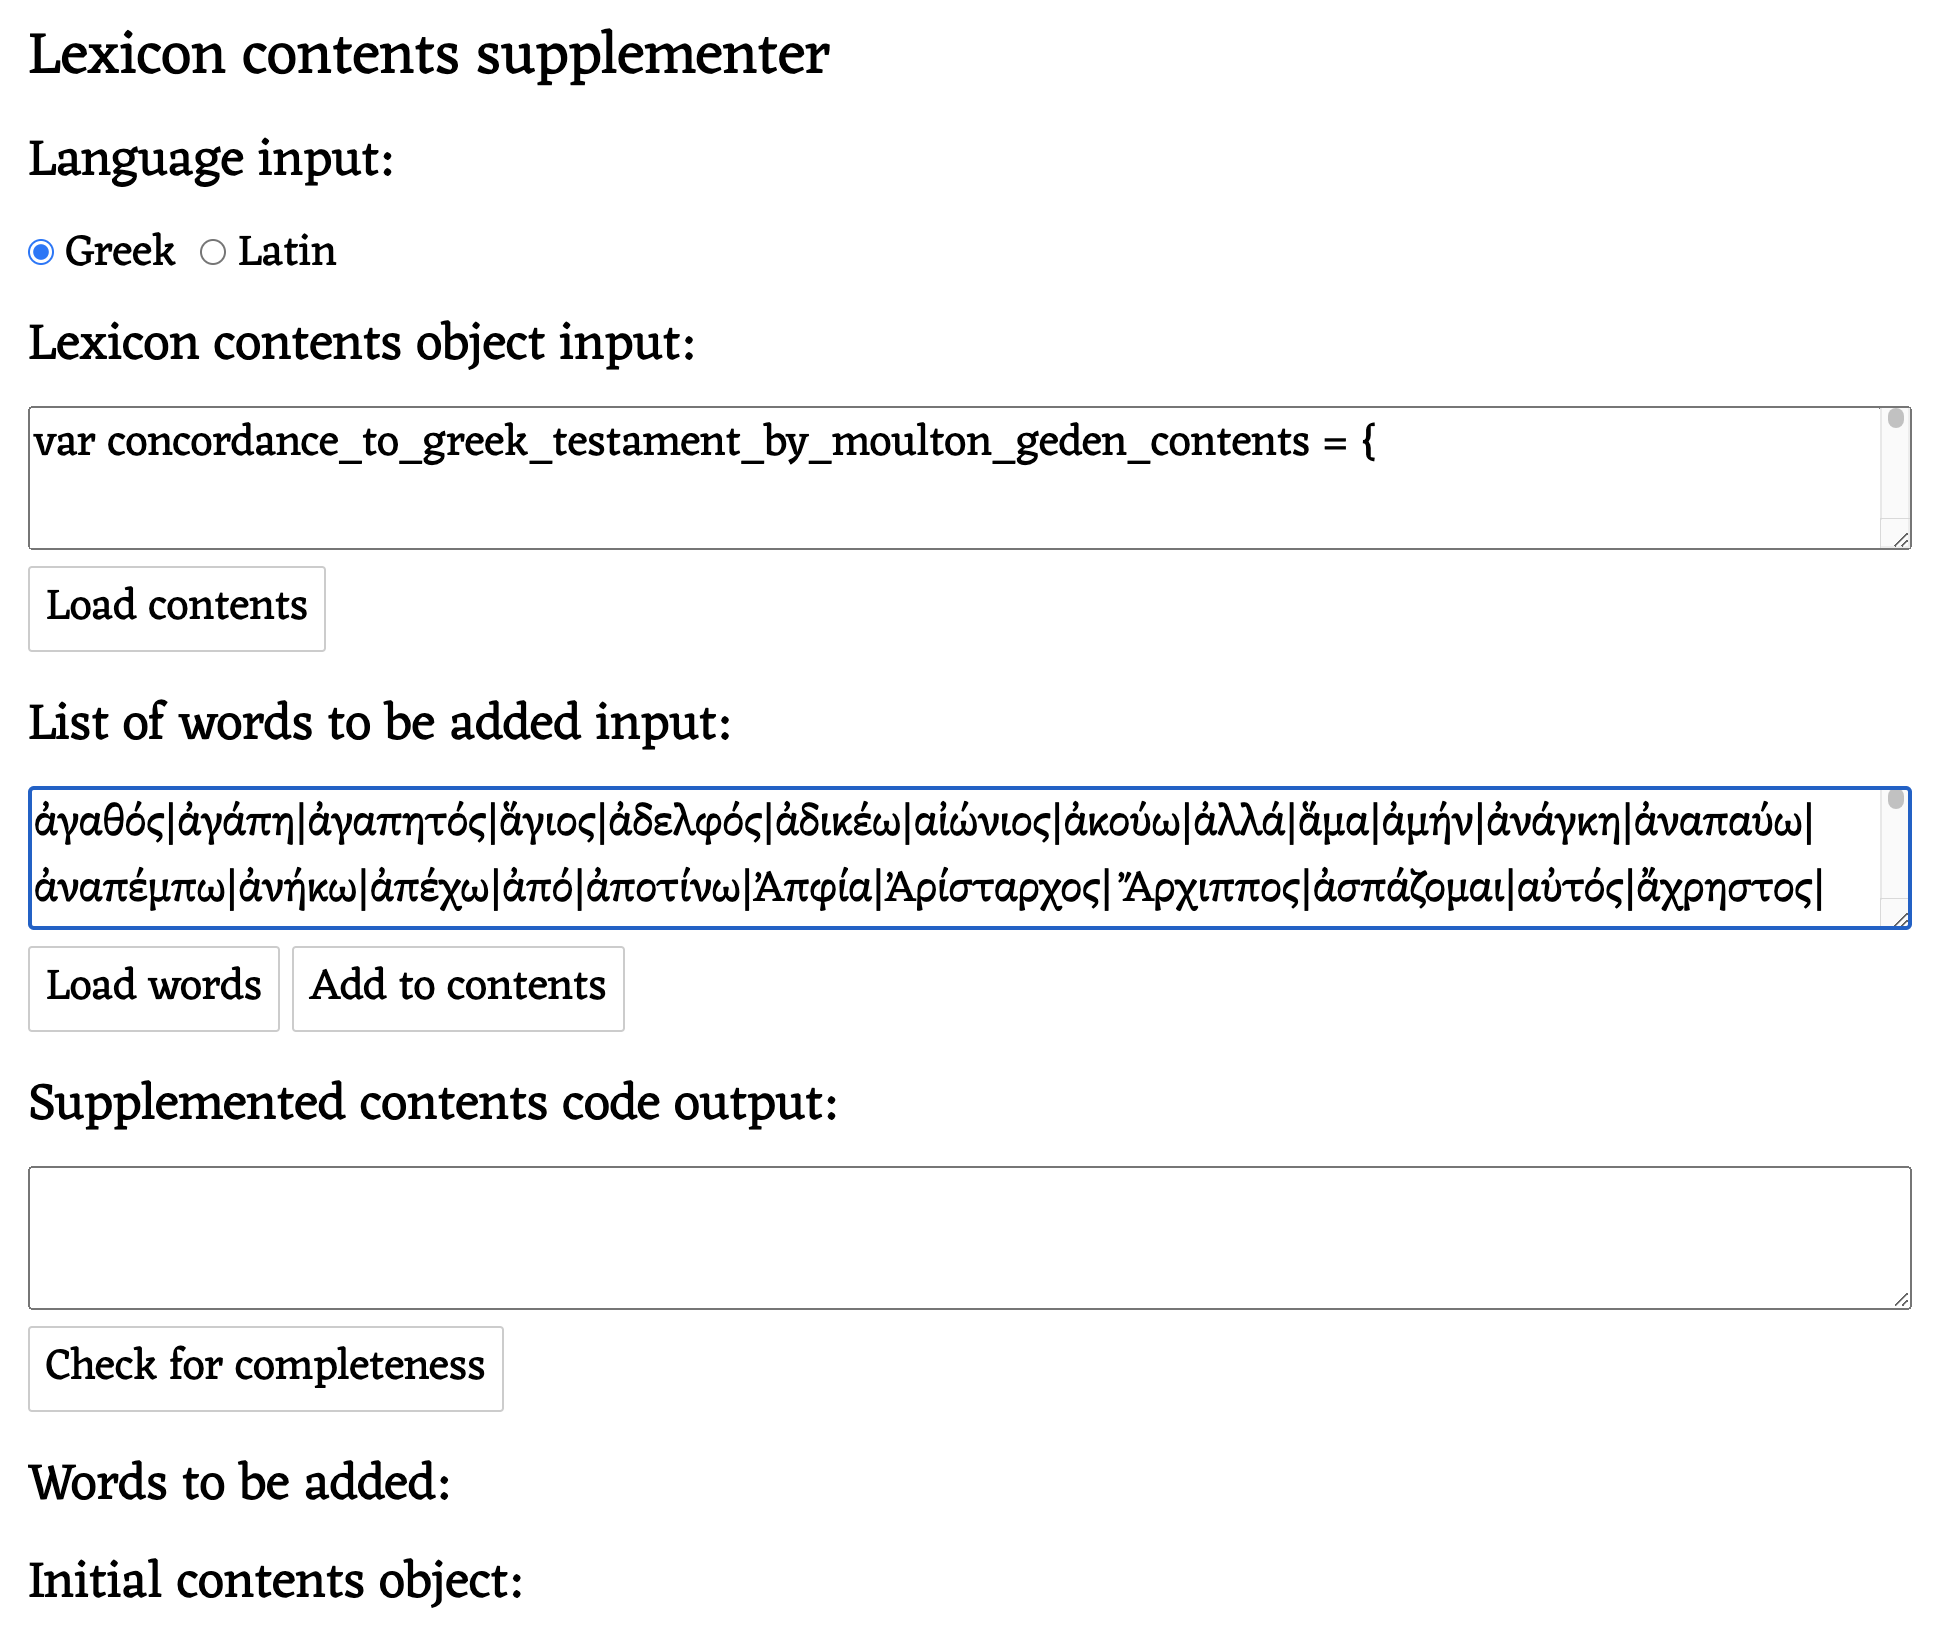
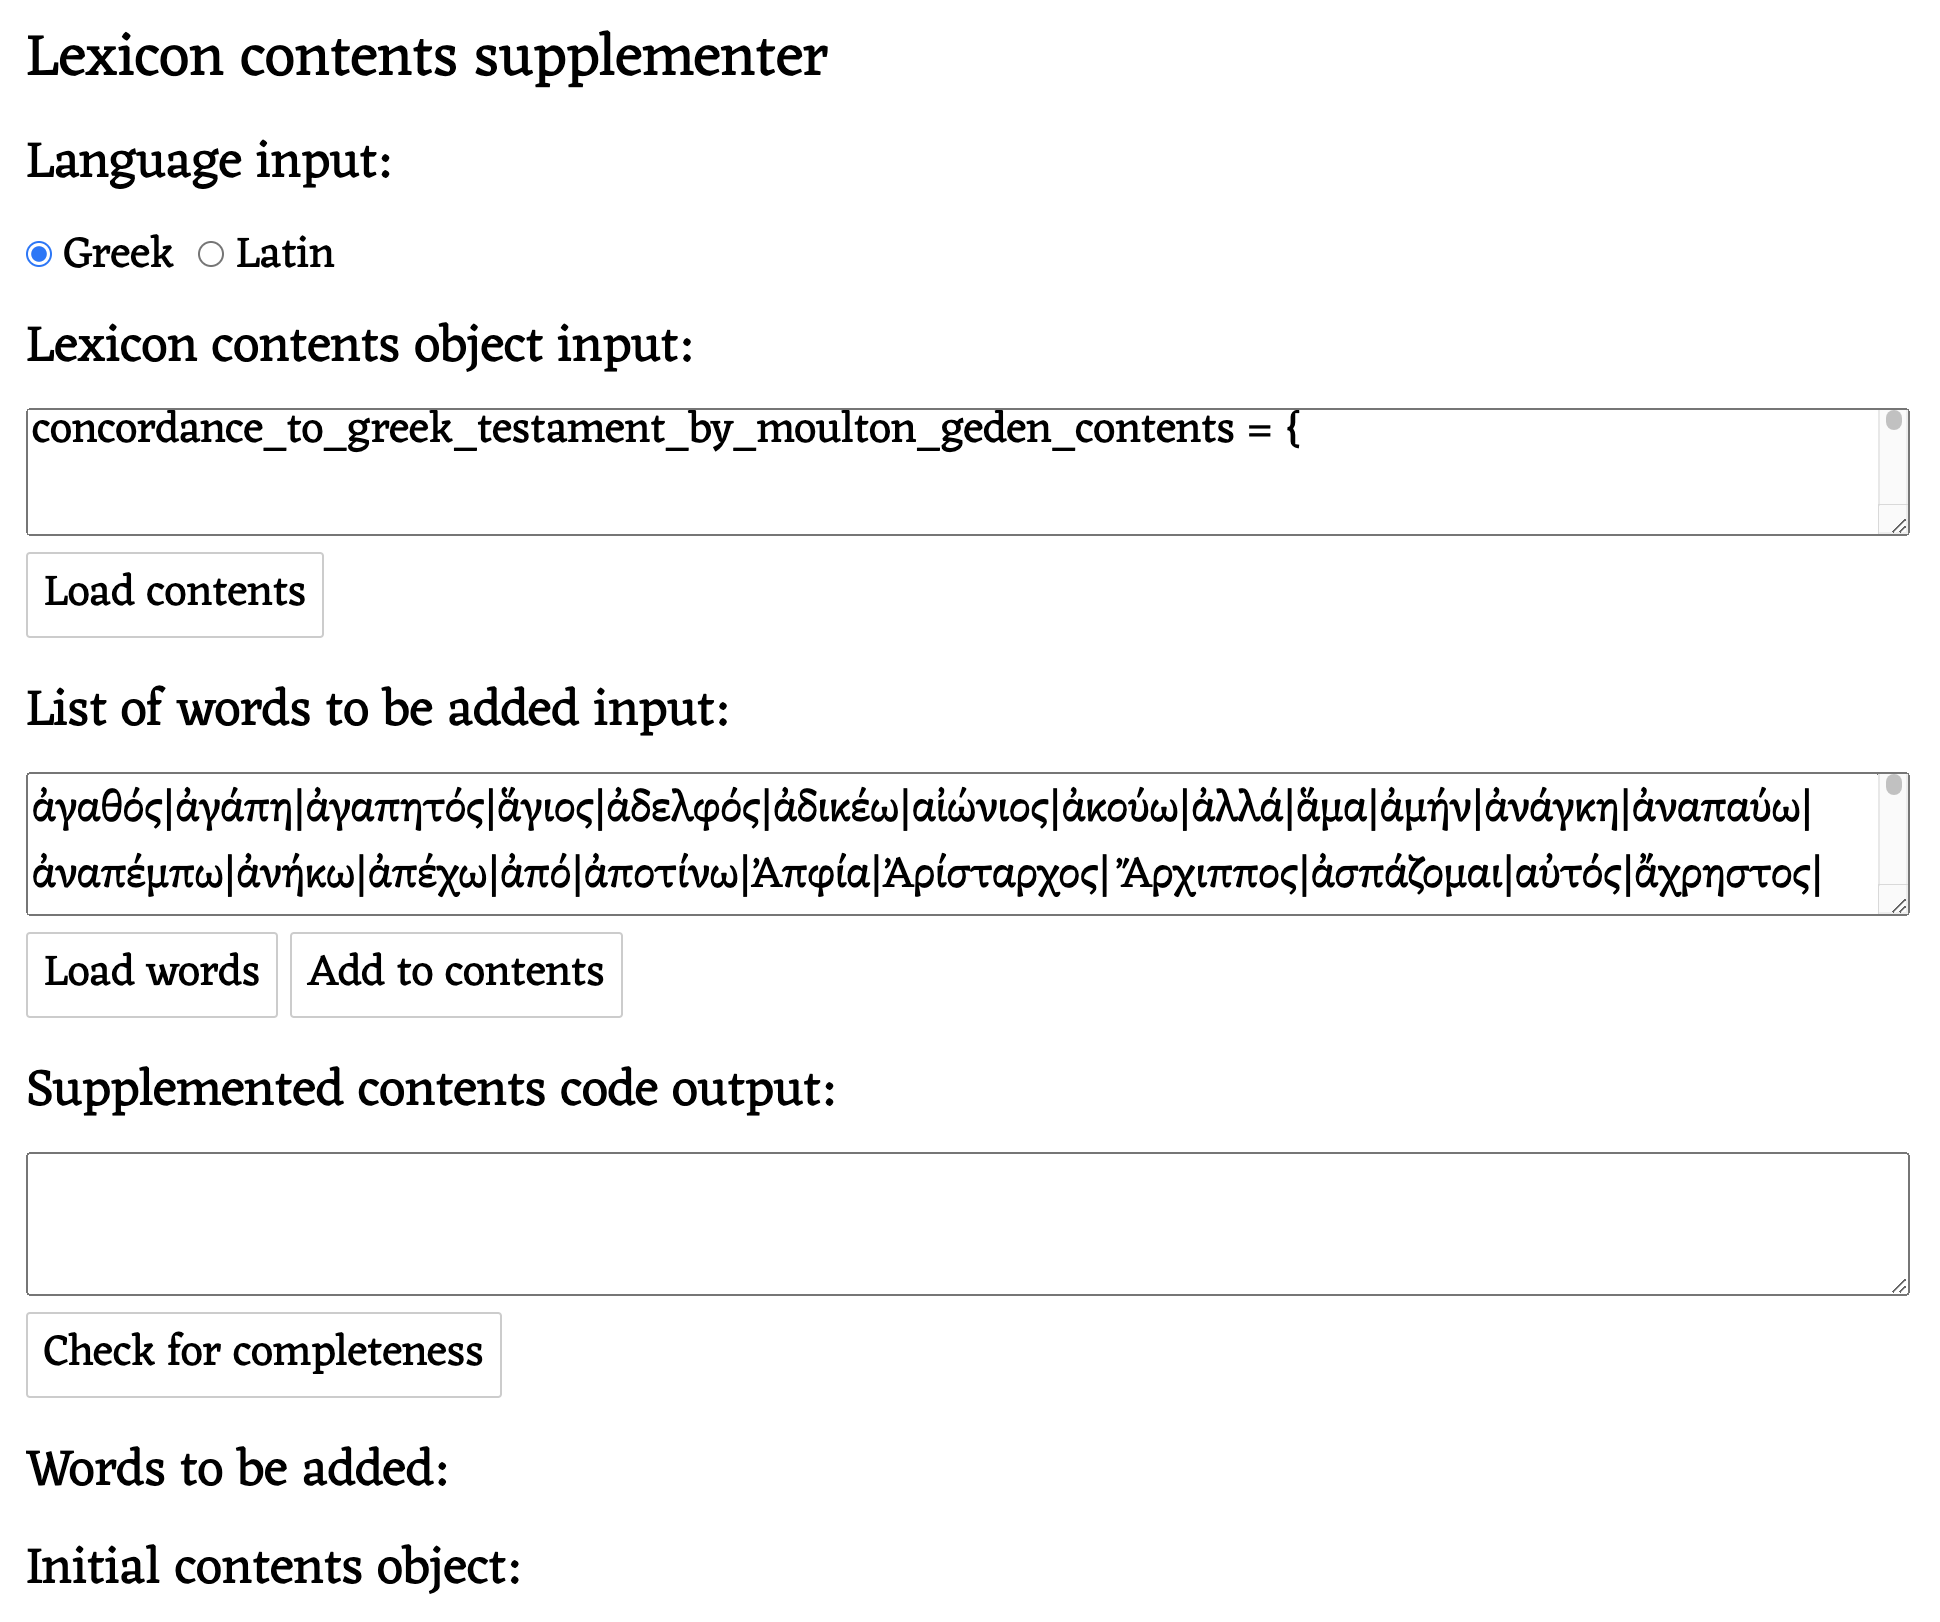
[122] Add Editor's docs part 14

diff --git a/docs/for_editor.html b/docs/for_editor.html
@@ -2542,7 +2542,51 @@ concordance_to_greek_testament_by_moulton_geden_contents = {
 
 <h4 class="pc-anchor" id="h-concordance-workflows-for-multiple-collections">Workflows for multiple collections</h4>
 
+<p>Usually scanned resource of the type "Concordance" is being included into several collections. E.g. such resource as concordance edited by W. F. Moulton and A. S. Geden will be used in every collection dedicated to certain book of the New Testament. This means that the same contents file of the scanned resource of the type "Concordance" will be used by all relevant collections.</p>
 
+<p>There are several workflows for creating contents file to be used by several collections.</p>
+
+<h5 class="pc-anchor" id="h-concordance-workflows-supplementing-in-stages">Supplementing in stages</h5>
+
+<p>One possible workflow is as follows: at first we <a class="inner-link" data-anchor="h-concordance-scanned-creating-new-contents-file">create new contents file</a> to be used by certain single collection and fill the gaps with page numbers for all lemmas found in the original text of that collection. Then we <a class="inner-link" data-anchor="h-concordance-scanned-supplementing-contents-file">supplement the contents file</a> with the lemmas found in original text of another collection and fill the gaps with page numbers of these lemmas. And we repeat this process again and again untill all lemmas of the all original texts of the all relevant collections are included in the contents file and all relevant page numbers are filled in.</p>
+
+<p>This workflow has the advantage that we can work only with lemmas of the original text of the single collection and doing so quickly prepare one or more resources of the type "Concordance" to be used inside single collection. The disadvantage is that in each cycle we need again to browse through all pages of the scanned book in search for relevant lemmas and that takes a lot of time.</p>
+
+<h5 class="pc-anchor" id="h-concordance-workflows-supplementing-at-start">Supplementing at start</h5>
+
+<p>Another possible workflow is as follows: at first we <a class="inner-link" data-anchor="h-concordance-scanned-creating-new-contents-file">create new contents file</a> to be used by certain single collection. Then we don't fill the gaps with page numbers, but instead <a class="inner-link" data-anchor="h-concordance-scanned-supplementing-contents-file">supplement the contents file</a> with the lemmas found in original text of another collection. And we repeat this process again and again untill all lemmas of the all original texts of the all relevant collections are included in the contents file. Then we browse through all pages of the scanned book, find the page numbers of the all lemmas and fill the gaps in contents file with these page numbers.</p>
+
+<p>This workflow has the advantage that we must browse though all pages of the scanned book only once and this takes much less time than repeated browsing of the workflow described above. But the disadvantage is that we cannot work with the single collection at the time and must create huge contents file at once.</p>
+
+<h5 class="pc-anchor" id="h-concordance-workflows-cleaning-page-numbers">Cleaning page numbers</h5>
+
+<p>By using the first or the second workflow of those described above we get contents file of the resource of the type "Concordance"  which is being used by multiple collections. We may need to add another resource of the type "Concordance" to the same collections. E.g. after having added concordance edited by W. F. Moulton and A. S. Geden to every collection dedicated to certain book of the New Testament we may need to add concordance edited by Ch. F. Hudson and E. Abbot to the same collections. In such cases we can shortcut the process by using the third workflow.</p>
+
+<p>The contents file for the new resource of the type "Concordance" should contain the same lemmas. This means that we can reuse existing contens file: we only need to remove page numbers, to change the name of the contents object and to change the name of the file. To remove page numbers from the contents file use <a href="../tools/lexicon_page_numbers_cleaner.html" target="_blank">Lexicon page numbers cleaner</a>. Copy contents object from the contens file, paste it in the field "Lexicon contents object" and click the button "Clean page numbers":</p>
+
+<p><img src="img2/concordance_scanned_07.png" class="w3-border w3-border-dark-gray pc-height-auto max-width-120"></p>
+
+<p>Then save the outputted contens object without page numbers using relevant contents object name and file name.</p>
+
+<h5 class="pc-anchor" id="h-concordance-workflows-importing-after-cleaning">Importing after cleaning</h5>
+
+<p>It may happen that one resource of the type "Concordance" has been added to multiple collections and another resource of the type "Concordance" has been added  to just single or several collections. E.g. such resource as concordance edited by W. F. Moulton and A. S. Geden has been added to every collection dedicated to certain book of the New Testament, but such resource as concordance edited by Ch. F. Hudson and E. Abbot has been added to one or couple of collections. Now we need to add this resource to remaining collections.<p>
+
+<p>In this case we need to use the following workflow. At first we should take that bigger contents file which contains comprehensive list of lemmas found in multiple collections and <a class="inner-link" data-anchor="h-concordance-workflows-cleaning-page-numbers">remove the page numbers</a> from it. After that we need to import data into cleaned contents object from the contents object which contains less comprehensive list of lemmas from single collection or couple of collections. To do this go to <a href="../tools/lexicon_contents_importer.html" target="_blank">Lexicon contents importer</a> form anf fill the fields:</p>
+
+<p><img src="img2/concordance_scanned_08.png" class="w3-border w3-border-dark-gray pc-height-auto max-width-120"></p>
+
+<p>The value of the form‘s field "Language" should be "Greek" because lemmas in both contents objects are in Greek.<p>
+
+<p>The value of the field "Lexicon contents object" should be contents object in which page numbers have been removed, i.e. that contents object which contains comprehensive list of lemmas found in multiple collections.</p>
+
+<p>The value of the field "Lexicon contents object to be imported" should be contents object with all page numbers intact which contains less comprehensive list of lemmas from single collection or couple of collections.</p>
+
+<p>After filling fields with such values click the button "Load contents" which is below the first textarea and the list of lemmas contained in the initial contents object will be displayed below the heading "Initial contents object:". Then click the button "Load contents" which is below the second textarea and the list of lemmas contained in contents object to be imported will be displayed below the heading "Contents object to be imported:". After that click the button "Import contents" and the resulting contents object will be outputted inside textarea "Resulting contents object code". Then click the button "Check for completeness". All lemmas below the headings "Contents object to be imported:" and "Initial contents object:" should be colored green. If certain lemmas remain not colored, inform about it senior editor.</p>
+
+<p>Then save the resulting contents object using relevant object name and file name.<p>
+
+<h3 class="pc-anchor" id="h-concordance-transcribed">Concordance (transcribed)</h3>
 
 
 
@@ -2862,7 +2906,7 @@ var words_concordance_to_greek_testament_by_moulton_geden_contents = {
 
 <p>Then save the resulting contents object using relevant object name and file name.<p>
 
-<h3 class="pc-anchor" id="h-concordance-transcribed">Concordance (transcribed)</h3>
+<h3 class="pc-anchor" id="h-concordance-transcribed2">Concordance (transcribed)</h3>
 
 <p>Creating transcribed resource of the type "concordance" involves creating data file and contents file.</p>
 